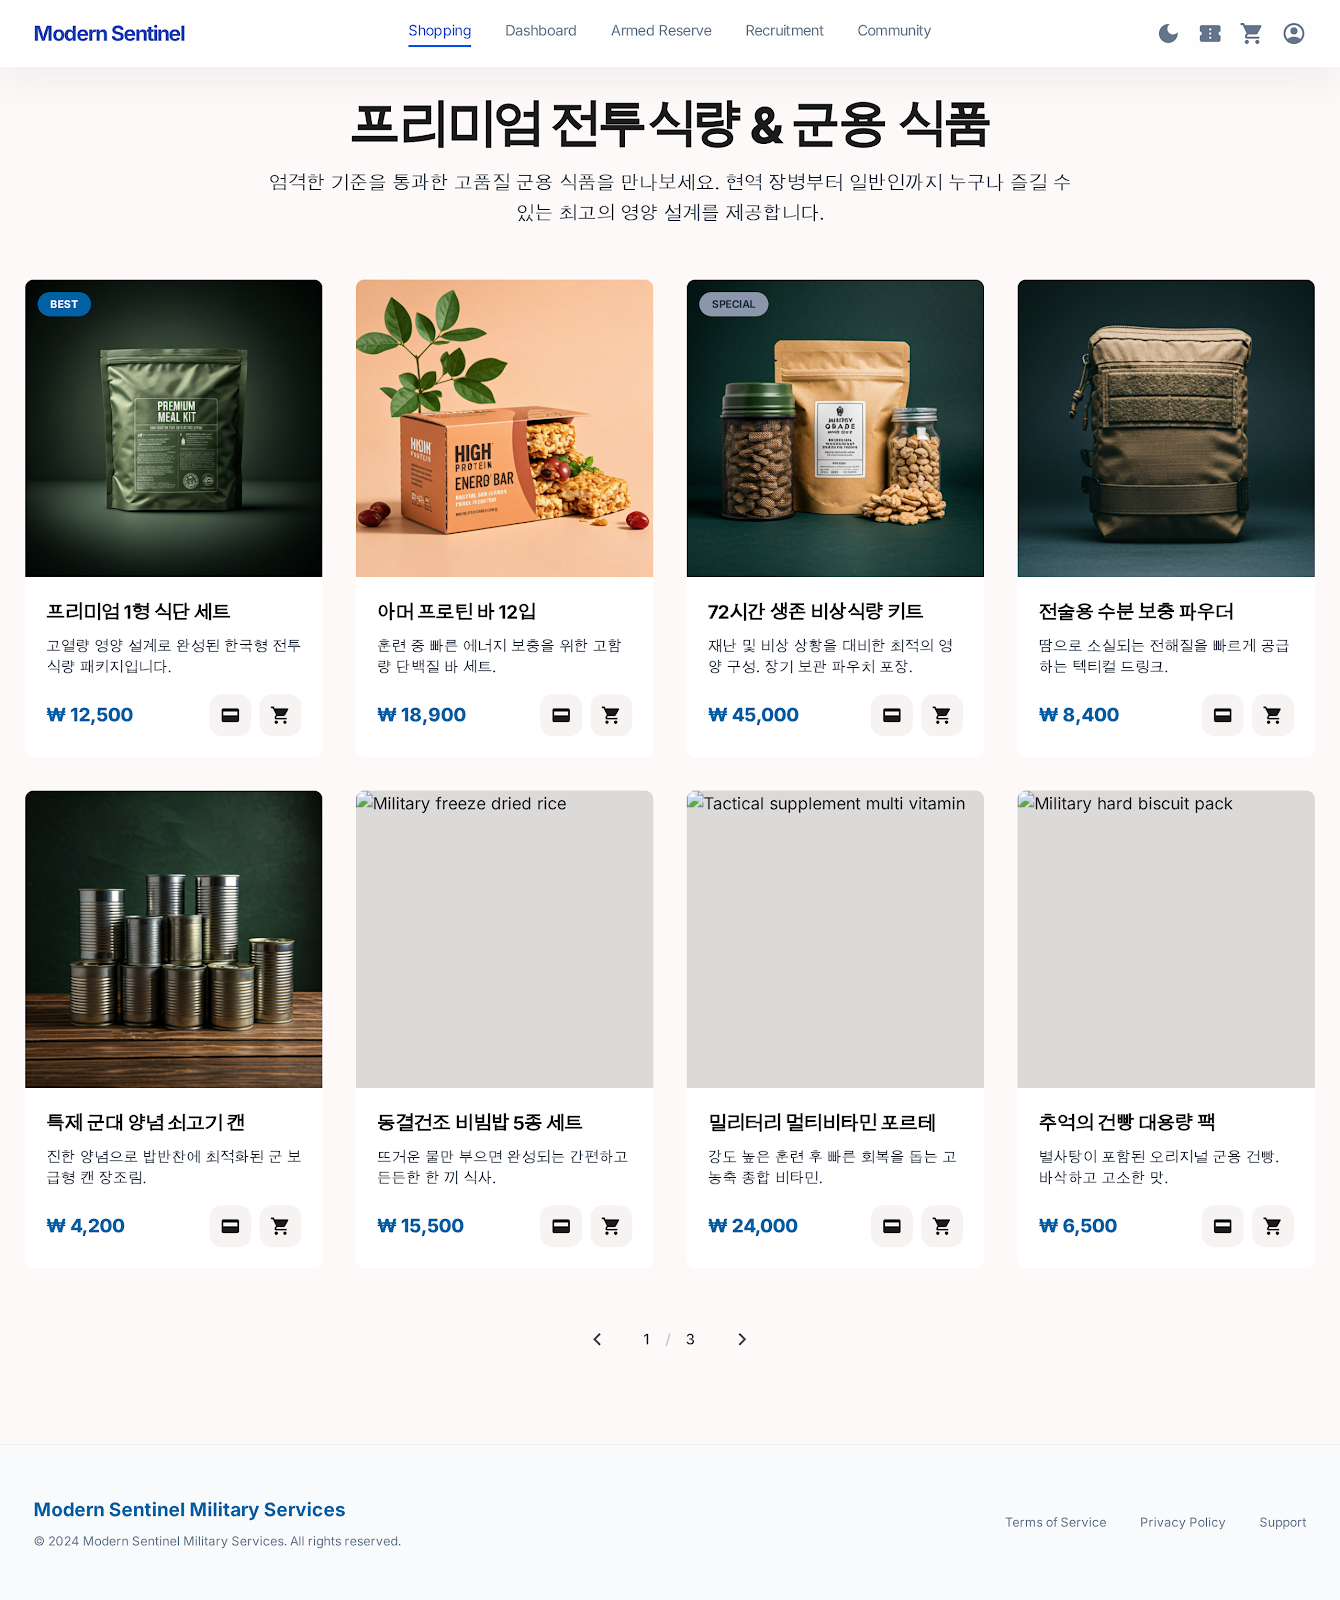
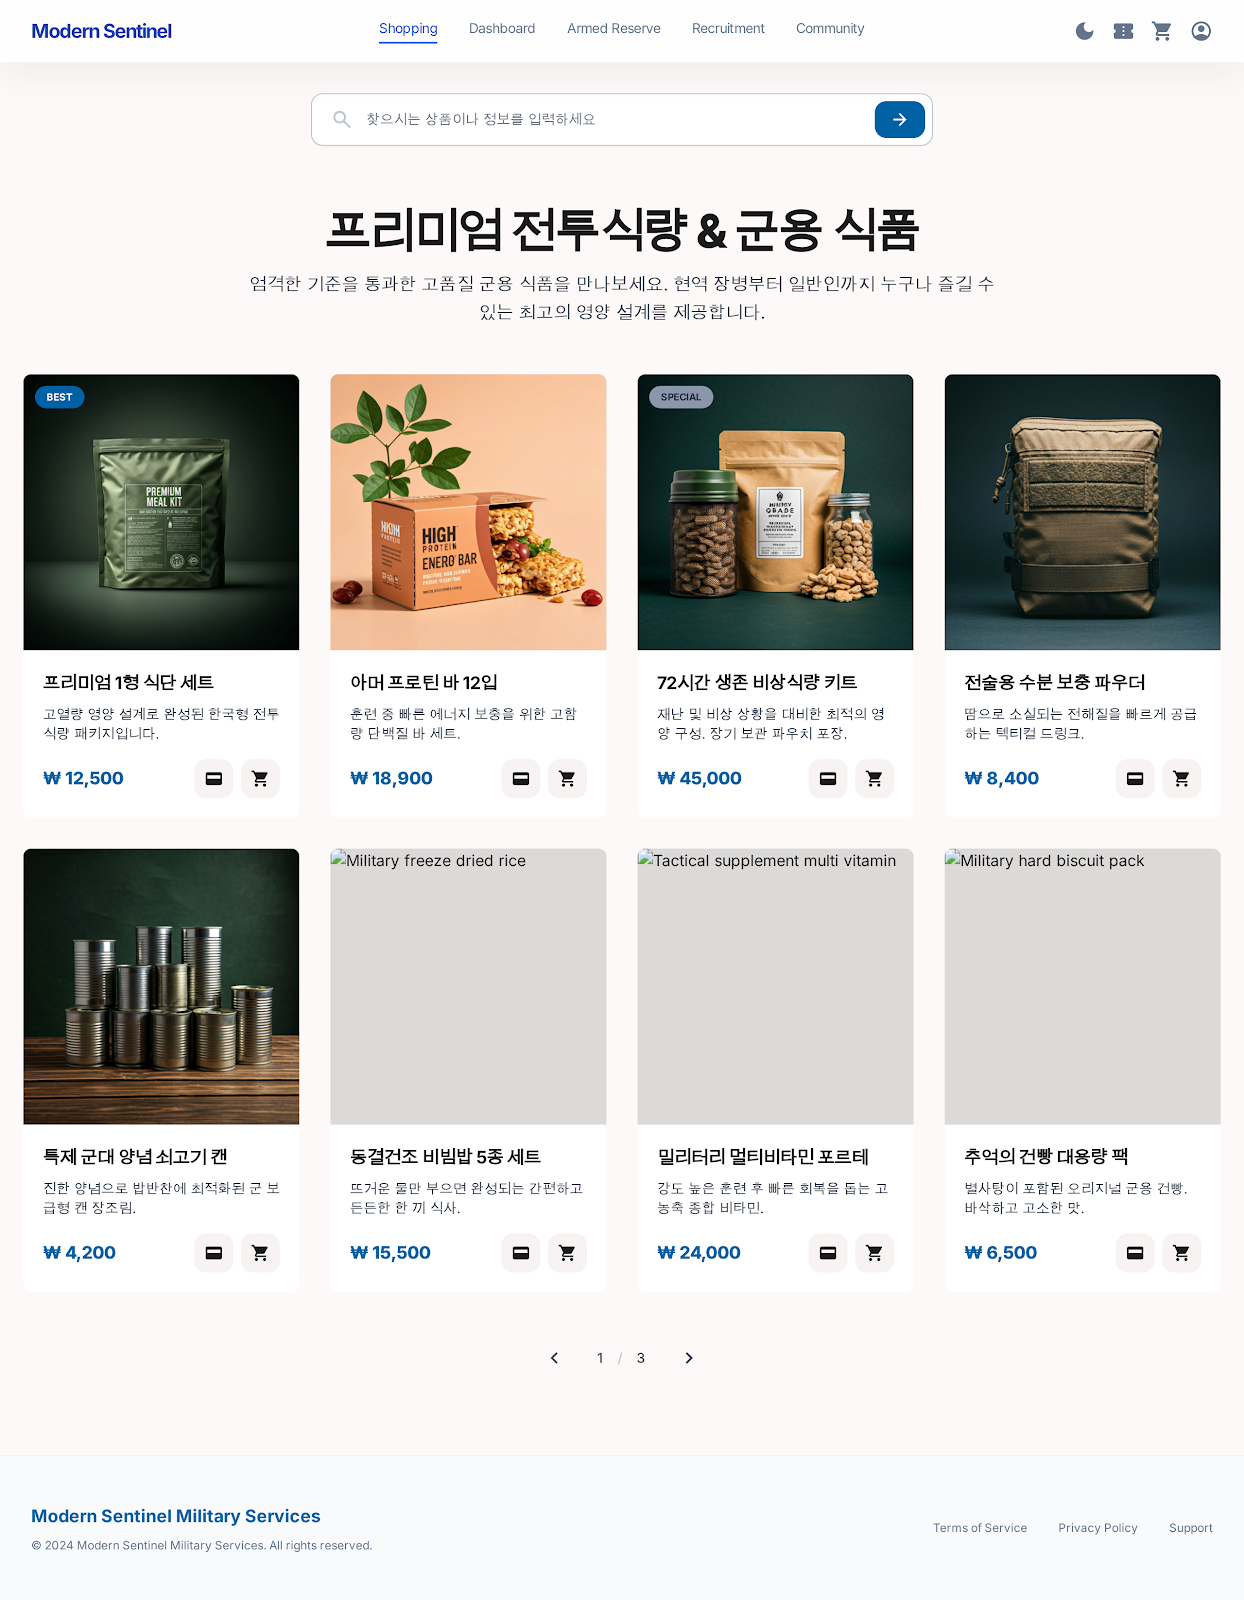
rename: shopping 관련 사진 변경

diff --git a/stitch/shopping/code.html b/stitch/shopping/code.html
@@ -109,6 +109,18 @@
 </nav>
 </header>
 <main class="pt-24 pb-20 px-6 max-w-7xl mx-auto">
+<!-- Search Section -->
+<section class="max-w-2xl mx-auto mb-16 px-4">
+<div class="relative group">
+<div class="absolute inset-y-0 left-0 pl-5 flex items-center pointer-events-none">
+<span class="material-symbols-outlined text-outline-variant group-focus-within:text-primary transition-colors">search</span>
+</div>
+<input class="block w-full pl-14 pr-16 py-4 bg-surface-container-lowest border border-outline-variant focus:border-primary focus:ring-4 focus:ring-primary/10 rounded-full text-sm font-medium placeholder:text-outline transition-all shadow-sm" placeholder="찾으시는 상품이나 정보를 입력하세요" type="text"/>
+<button class="absolute inset-y-2 right-2 px-4 flex items-center justify-center bg-primary text-on-primary rounded-full hover:bg-on-primary-fixed-variant transition-colors">
+<span class="material-symbols-outlined text-[20px]">arrow_forward</span>
+</button>
+</div>
+</section>
 <!-- Hero Section -->
 <section class="mb-12 text-center">
 <div class="max-w-3xl mx-auto">
@@ -287,8 +299,8 @@
 <span class="material-symbols-outlined">chevron_left</span>
 </button>
 <div class="text-sm font-medium tracking-widest text-on-surface-variant">
-            1 <span class="mx-2 text-outline-variant">/</span> 3
-        </div>
+                1 <span class="mx-2 text-outline-variant">/</span> 3
+            </div>
 <button class="flex items-center justify-center w-10 h-10 rounded-full hover:bg-surface-container-high transition-colors text-on-surface-variant">
 <span class="material-symbols-outlined">chevron_right</span>
 </button>
